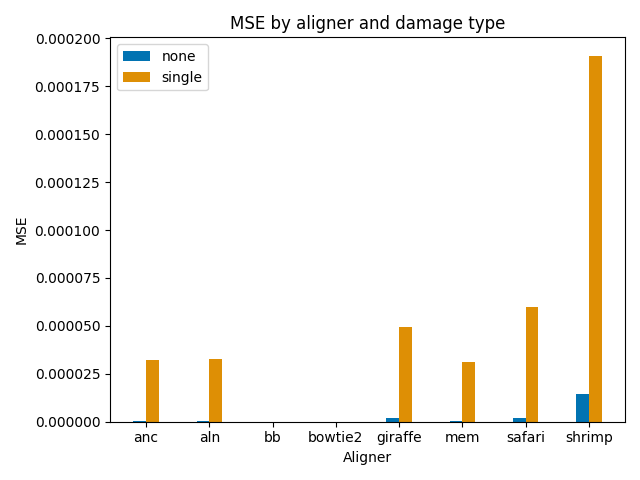
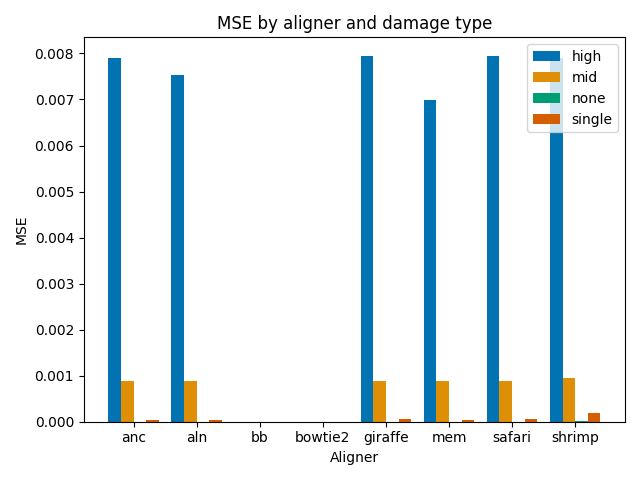
Update

diff --git a/linear_experiment/human_mito/compare_damage_est.py b/linear_experiment/human_mito/compare_damage_est.py
@@ -42,7 +42,7 @@ def load_damage_data(file_name):
 def load_prof_data(file_name):
     file_path = os.path.join(prof_data_path, file_name)
     if os.path.getsize(file_path) == 0:
-        print(f'File {file_name} is empty.')
+        #print(f'File {file_name} is empty.')
         return None, None
     try:
         with open(file_path, 'r') as file:
@@ -123,6 +123,18 @@ def check_data(damage_data_dict, prof_data_dict):
         aligner = extract_aligner(file_name)
 
         true_data_key = f'{damage_type}{len(table1)}.dat'
+
+        if true_data_key == 'high5.dat':
+            true_data_key= "dhigh5.dat"
+        if true_data_key == 'high3.dat':
+            true_data_key= "dhigh3.dat"
+        if true_data_key == 'mid5.dat':
+            true_data_key= "dmid5.dat"
+        if true_data_key == 'mid3.dat':
+            true_data_key= "dmid3.dat"
+
+        #print(damage_type, aligner, true_data_key, damage_data_dict.keys())
+
         true_data = damage_data_dict.get(true_data_key)
 
         mse_table1 = compute_mse(true_data, table1)
